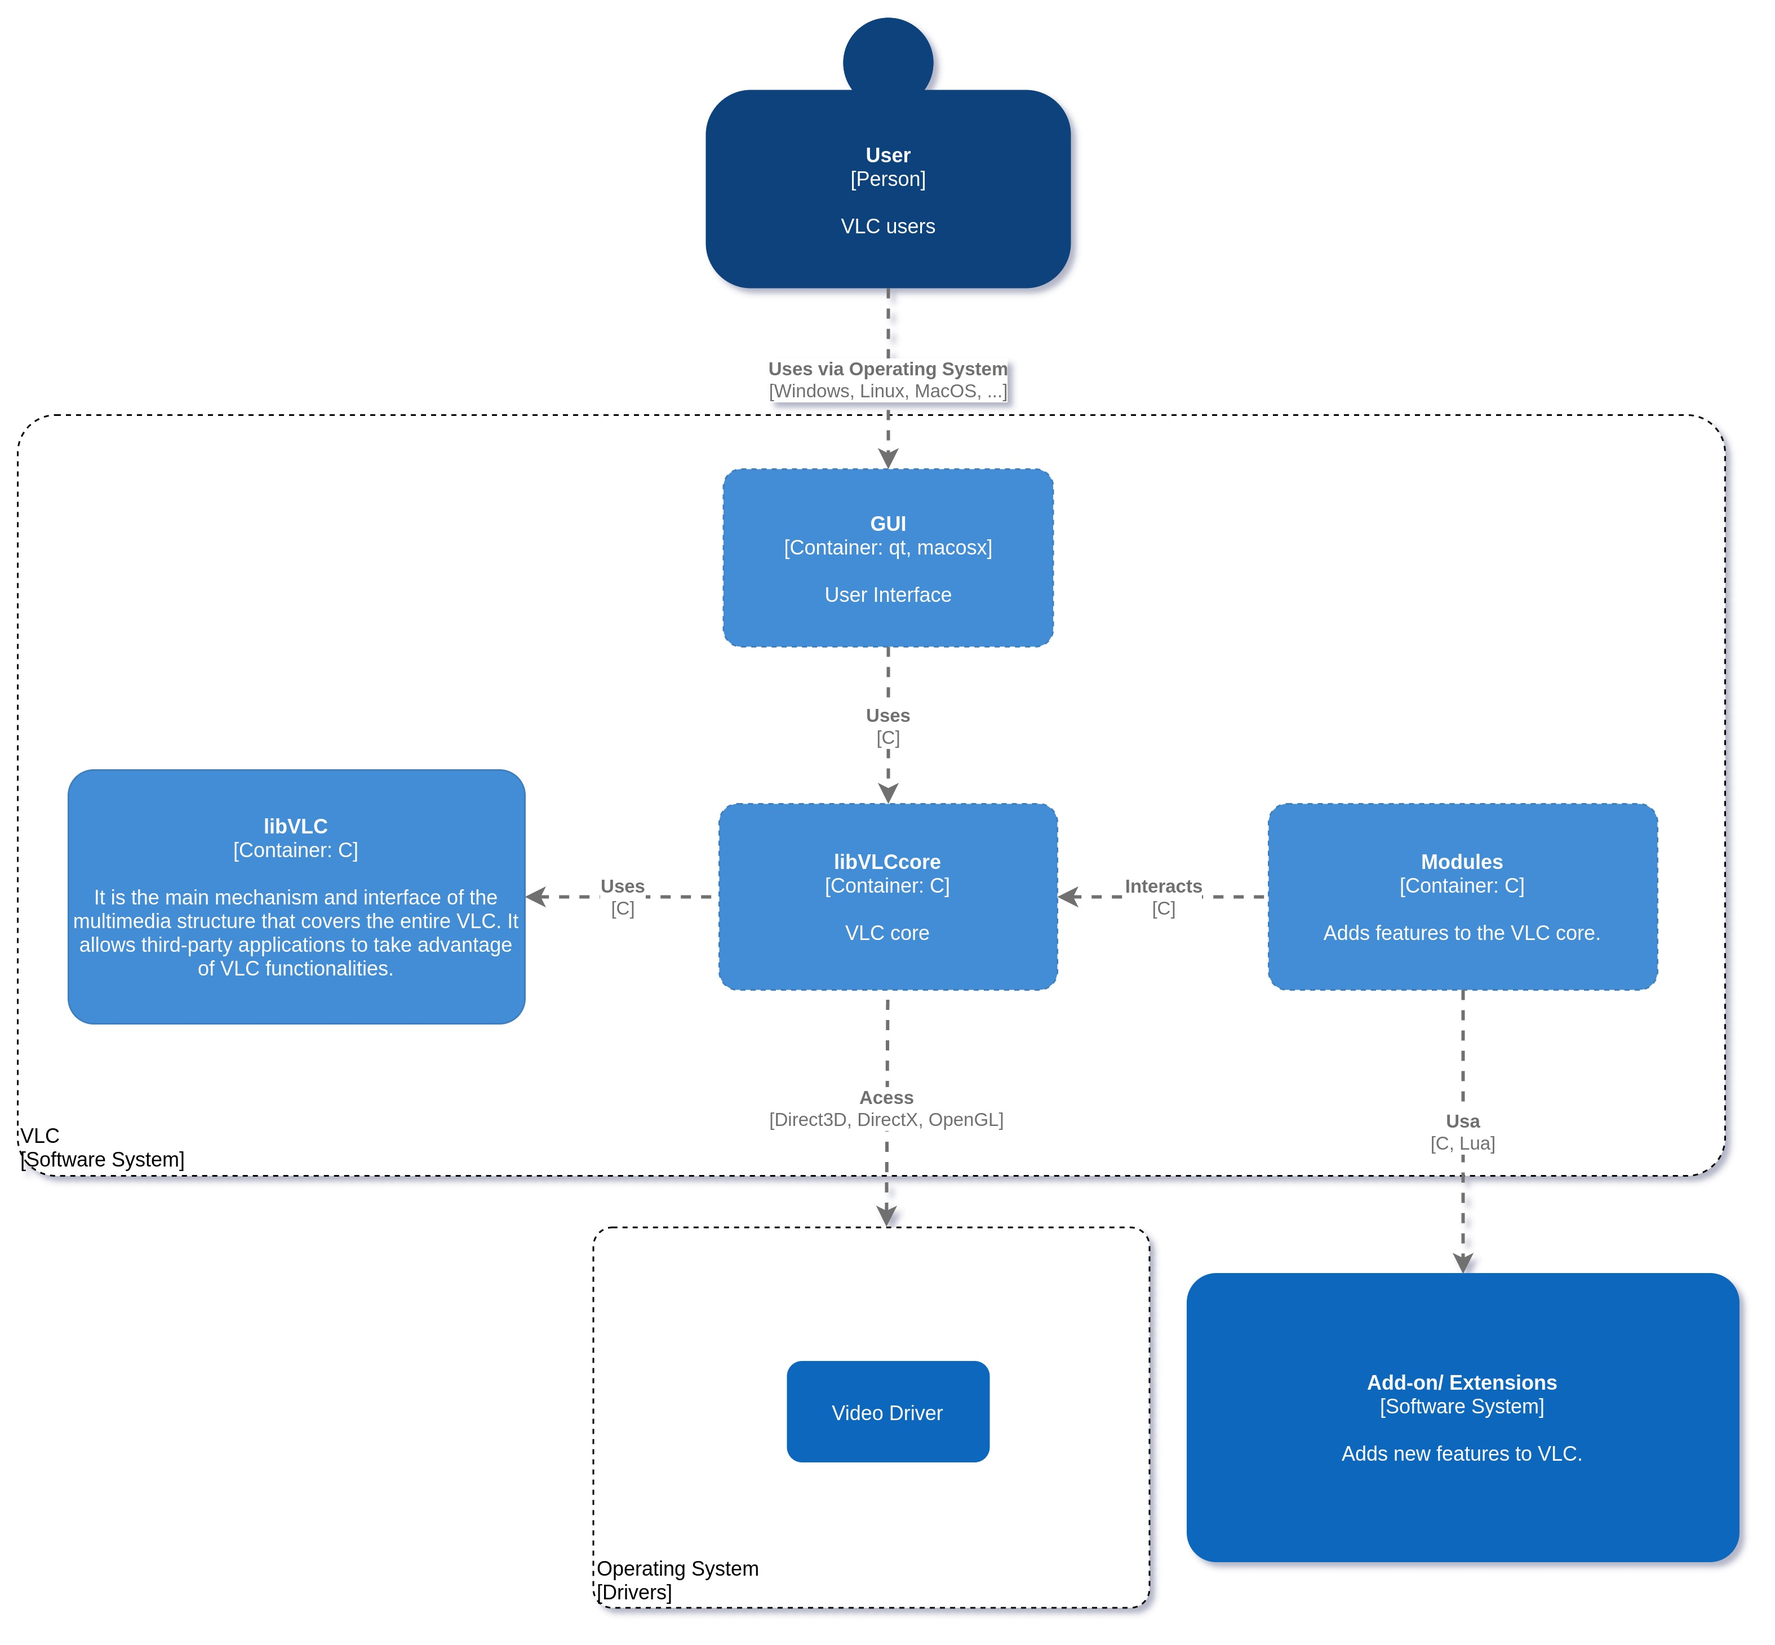
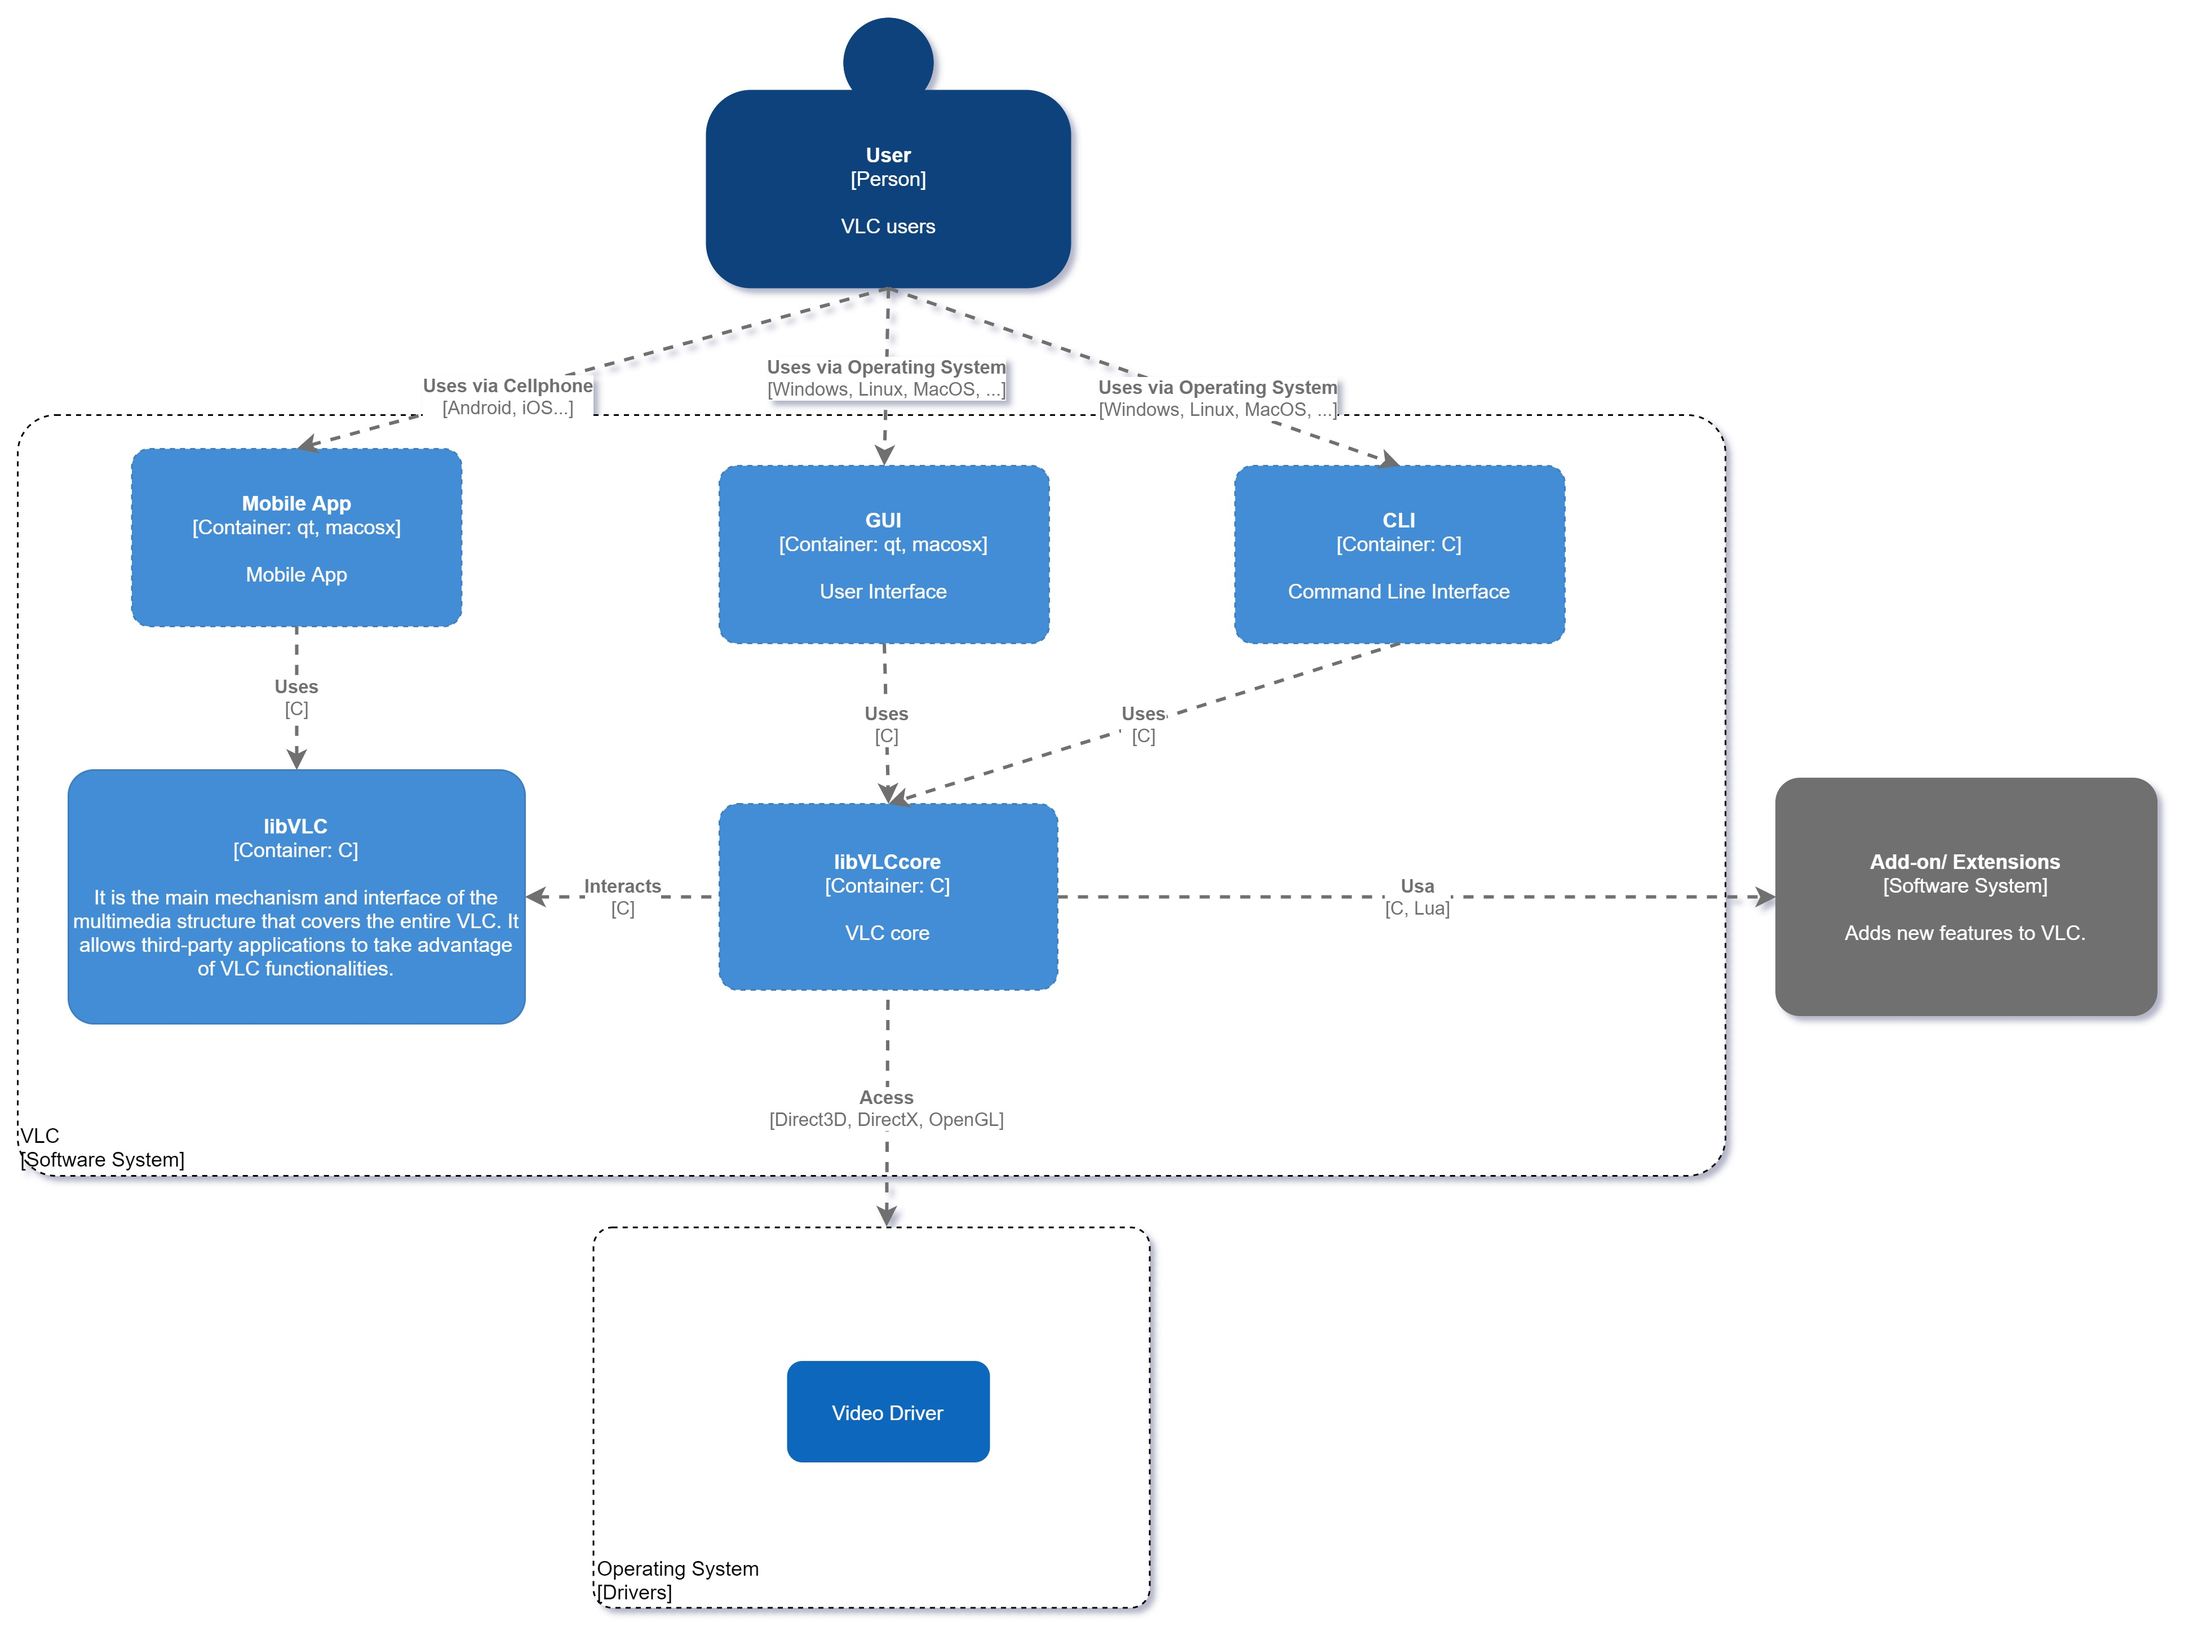
finalizando a documentação

diff --git a/content/posts/vlc.md b/content/posts/vlc.md
@@ -1,6 +1,6 @@
 +++
 title = "Documentação Arquitetural do VLC"
-date = 2021-04-25
+date = 2021-04-30
 tags = []
 categories = []
 +++
@@ -21,13 +21,13 @@ Este documento foi produzido por Higor Santos de Brito Dantas.
 - Projeto documentado: https://github.com/videolan/vlc
 
 <div style="display: flex; flex-direction: row; align-items: center;">
-  <img src="icon2.png" style="width: 60px; box-shadow: none; margin-right: 30px">
+  <img src="icon.png" style="width: 60px; box-shadow: none; margin-right: 30px">
   <h1>Descrição Arquitetural – VLC</h1>
 </div>
 
 Este documento descreve parte da arquitetura do projeto [VLC](https://github.com/videolan/vlc). Essa descrição foi baseada principalmente no modelo [C4](https://c4model.com/).
 
-É importante destacar não será descrita toda a arquitetura do VLC. O foco será dado no módulo responsável por realizar a saída de vídeo, que é uma das partes mais importantes do programa.
+É importante destacar não será descrita toda a arquitetura do VLC. Apenas suas partes principais, e com um foco maior dado no módulo responsável por realizar a saída de vídeo, que é uma das partes mais importantes do programa.
 
 ## Descrição Geral sobre o VLC
 
@@ -54,14 +54,18 @@ Além disso, o VLC, por ser um reprodutor de áudios/vídeos, necessita conversa
 ### Containers
 
 Inicialmente, o usuário interage diretamente com a interface do VLC que dependendo o sistema operacional utilizado a tecnologia pode variar. Por exemplo, desde a versão `0.9.0`, as interfaces do aplicativo para Windows e Linux utilizam a biblioteca [Qt](https://pt.wikipedia.org/wiki/Qt), antes era utilizado a [wxWidgets](https://pt.wikipedia.org/wiki/WxWidgets). Além disso, é possível adicionar temas que podem ser baixados e adicionados para personalizar a interface (não disponível para MacOS).  
-A GUI vai se comunicar com o libVLCcore que é o núcleo da aplicação, ele quem realiza os gerenciamentos de threads, os módulos, como os codecs, os relógios etc. Inclusive, um exemplo dado pela própria documentação, é o núcleo que realiza a sincronização das faixas de áudio, vídeo e legenda. Além disso, existe a libVLC que é uma biblioteca que dá suporte a muitas das funcionalidades do aplicativo e que pode ser utilizada por terceiros para utilizar as mesmas funções empregadas no núcleo, que a utiliza para dar suporte e modularizar as funcionalidades da melhor maneira possível.  
-A modularização foi uma técnica bastante aplicada no desenvolvimento da ferramenta, tanto que o container Módulos é onde se localizam as principais funcionalidades, e os módulos necessitam interagir com a libVLCcore para acessar o núcleo da aplicação e conseguir realizar suas funções.
+A GUI se comunica com o libVLCcore que é o núcleo da aplicação, ele quem realiza os gerenciamentos de threads, os módulos, como os codecs, os relógios etc. Inclusive, utilizando um exemplo dado pela própria documentação, é o núcleo que realiza a sincronização das faixas de áudio, vídeo e legenda. Além disso, existe a libVLC que é uma biblioteca que dá suporte a muitas das funcionalidades do aplicativo e que pode ser utilizada por terceiros para utilizar as mesmas funções empregadas no núcleo, que a utiliza para dar suporte e modularizar as funcionalidades da melhor maneira possível.  
 
 ![Diagrama de Containers](diagrama-de-container.jpg)
 
 ### Componentes
 
-> TODO
+Por simplicidade, foi aberto apenas o componente do núcleo do VLC, chamada de libVLCcore, e nem todos os componentes estão mostrados já que são muitos. Então, estão representados apenas os componentes de demultiplexação, playlist, saida de áudio, internet, saída de vídeo, streaming.
+O componente de demultiplexação é o responsável por receber o arquivo do módulo de `input` e separar em vários fluxos, um para cada elemento: áudio, vídeo e legenda; em seguida, envia cada um para o decodificador.  
+Os componentes de saída de áudio e de vídeo são responsáveis por pegar quadros de áudio e de vídeo, respectivamente, decodificados e passar para o componente do hardware que irá realizar a operação de saída de dados.  
+O componente Playlist é responsável por controlar a lista de arquivos de mídia, já o de Internet fornece uma interface que permite aos demais se comunicar com a rede que, inclusive, é utilizado pelo componente de Streaming, que realiza as operações necessárias para a saída da transmissão de vídeos via internet.
+
+![Diagrama de Componentes](diagrama-de-componentes.jpg)
 
 ### Código
 
@@ -72,8 +76,11 @@ implementação. Faremos isso mais adiante.
 
 ### Visão de Informação
 
-> TODO
+Assim que é definido qual o arquivo de mídia irá ser aberto e o abre com o VLC, o primeiro passo será buscar o demultiplexador para o formato do arquivo, caso seja um formato não aceito pelo programa é impossível prosseguir com o processo e, portanto, será encerrado.  
+Caso contrário, o demultiplexador é encontrado, separa o arquivo em fluxos elementares e repassa cada um para o `codec` responsável. Após toda a operação realizada pelo codec, o fluxo de dados é levado ao componente de saída de vídeo, que irá repassar a solicitação para os drivers e, enfim, mostrar na tela.
+
+![Visão de Informação](visao-da-informacao.jpg)
 
 # Contribuições Concretas
 
-> TODO
+_Até o momento, não foi realizada nenhuma contribuição no repositório do software estudado ao longo deste documento._
